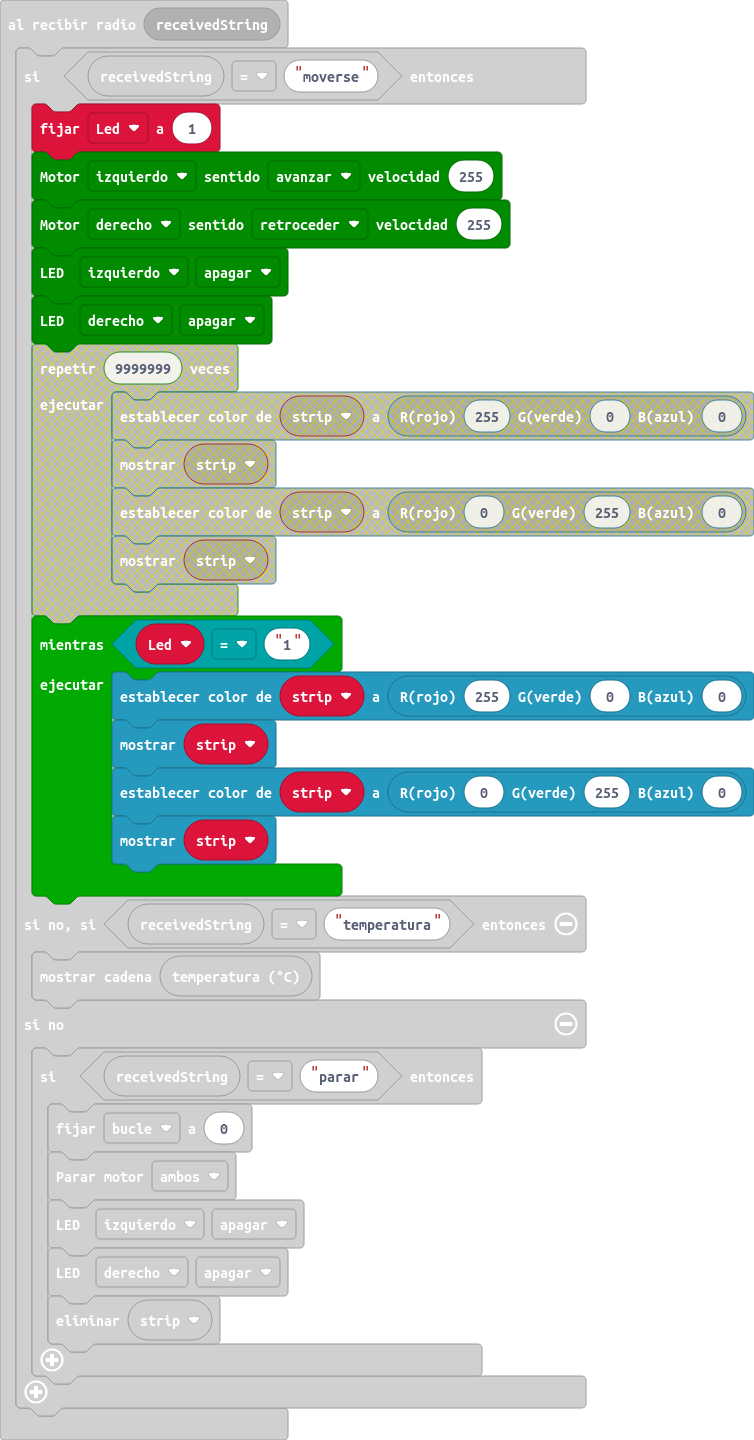
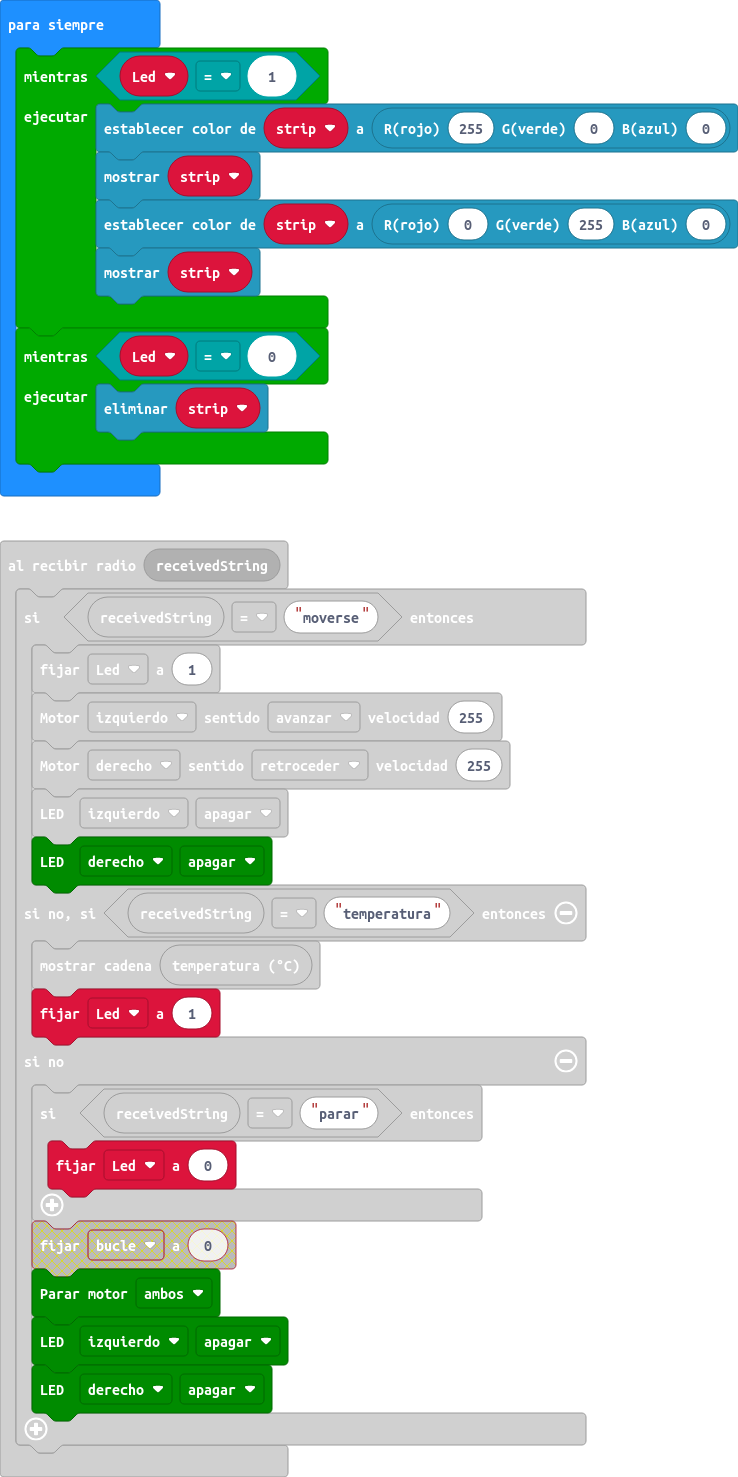
Actualizar main.blocks, main.ts

diff --git a/main.ts b/main.ts
@@ -15,28 +15,32 @@ radio.onReceivedString(function (receivedString) {
         maqueen.motorRun(maqueen.Motors.M2, maqueen.Dir.CCW, 255)
         maqueen.writeLED(maqueen.LED.LEDLeft, maqueen.LEDswitch.turnOff)
         maqueen.writeLED(maqueen.LED.LEDRight, maqueen.LEDswitch.turnOff)
-        while (Led == "1") {
-            strip.showColor(neopixel.rgb(255, 0, 0))
-            strip.show()
-            strip.showColor(neopixel.rgb(0, 255, 0))
-            strip.show()
-        }
     } else if (receivedString == "temperatura") {
         basic.showString("" + (input.temperature()))
+        Led = 1
     } else {
         if (receivedString == "parar") {
-            bucle = 0
+            Led = 0
             maqueen.motorStop(maqueen.Motors.All)
             maqueen.writeLED(maqueen.LED.LEDLeft, maqueen.LEDswitch.turnOff)
             maqueen.writeLED(maqueen.LED.LEDRight, maqueen.LEDswitch.turnOff)
-            strip.clear()
         }
     }
 })
 let Led = 0
-let bucle = 0
 let strip: neopixel.Strip = null
 strip = neopixel.create(DigitalPin.P15, 4, NeoPixelMode.RGB)
 radio.setGroup(12)
 let color = 0
-bucle = 0
+let bucle = 0
+basic.forever(function () {
+    while (Led == 1) {
+        strip.showColor(neopixel.rgb(255, 0, 0))
+        strip.show()
+        strip.showColor(neopixel.rgb(0, 255, 0))
+        strip.show()
+    }
+    while (Led == 0) {
+        strip.clear()
+    }
+})
